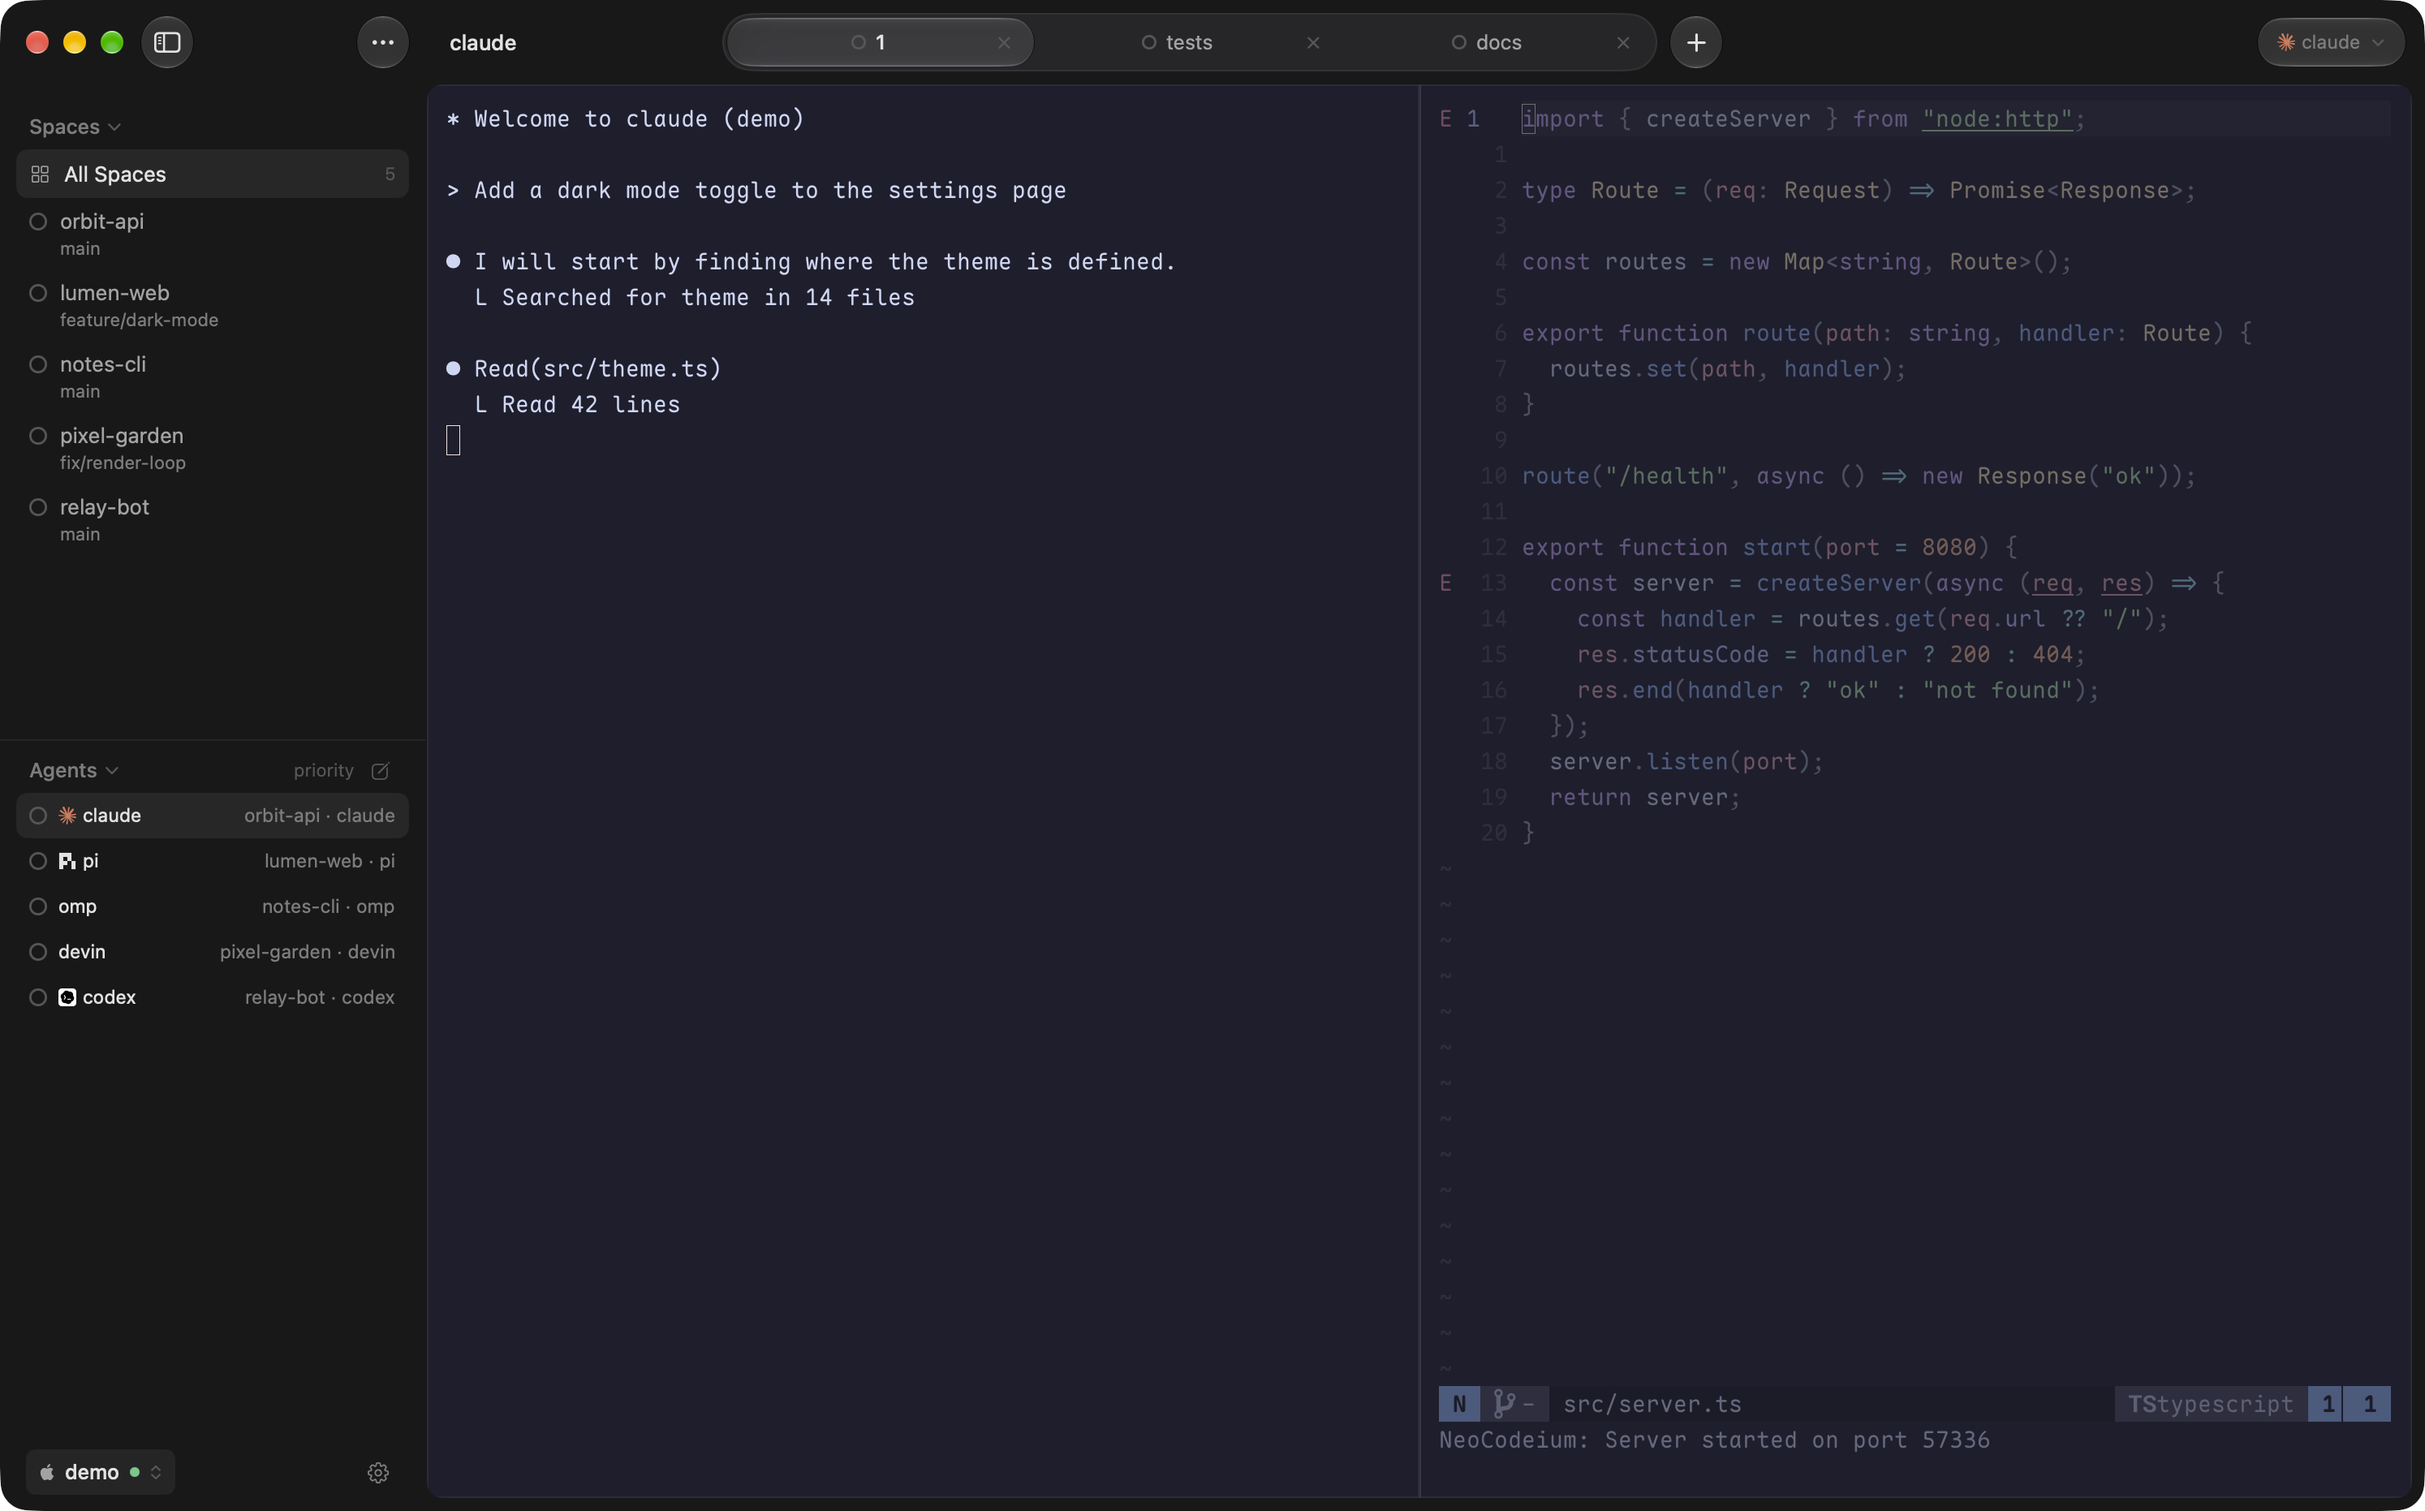
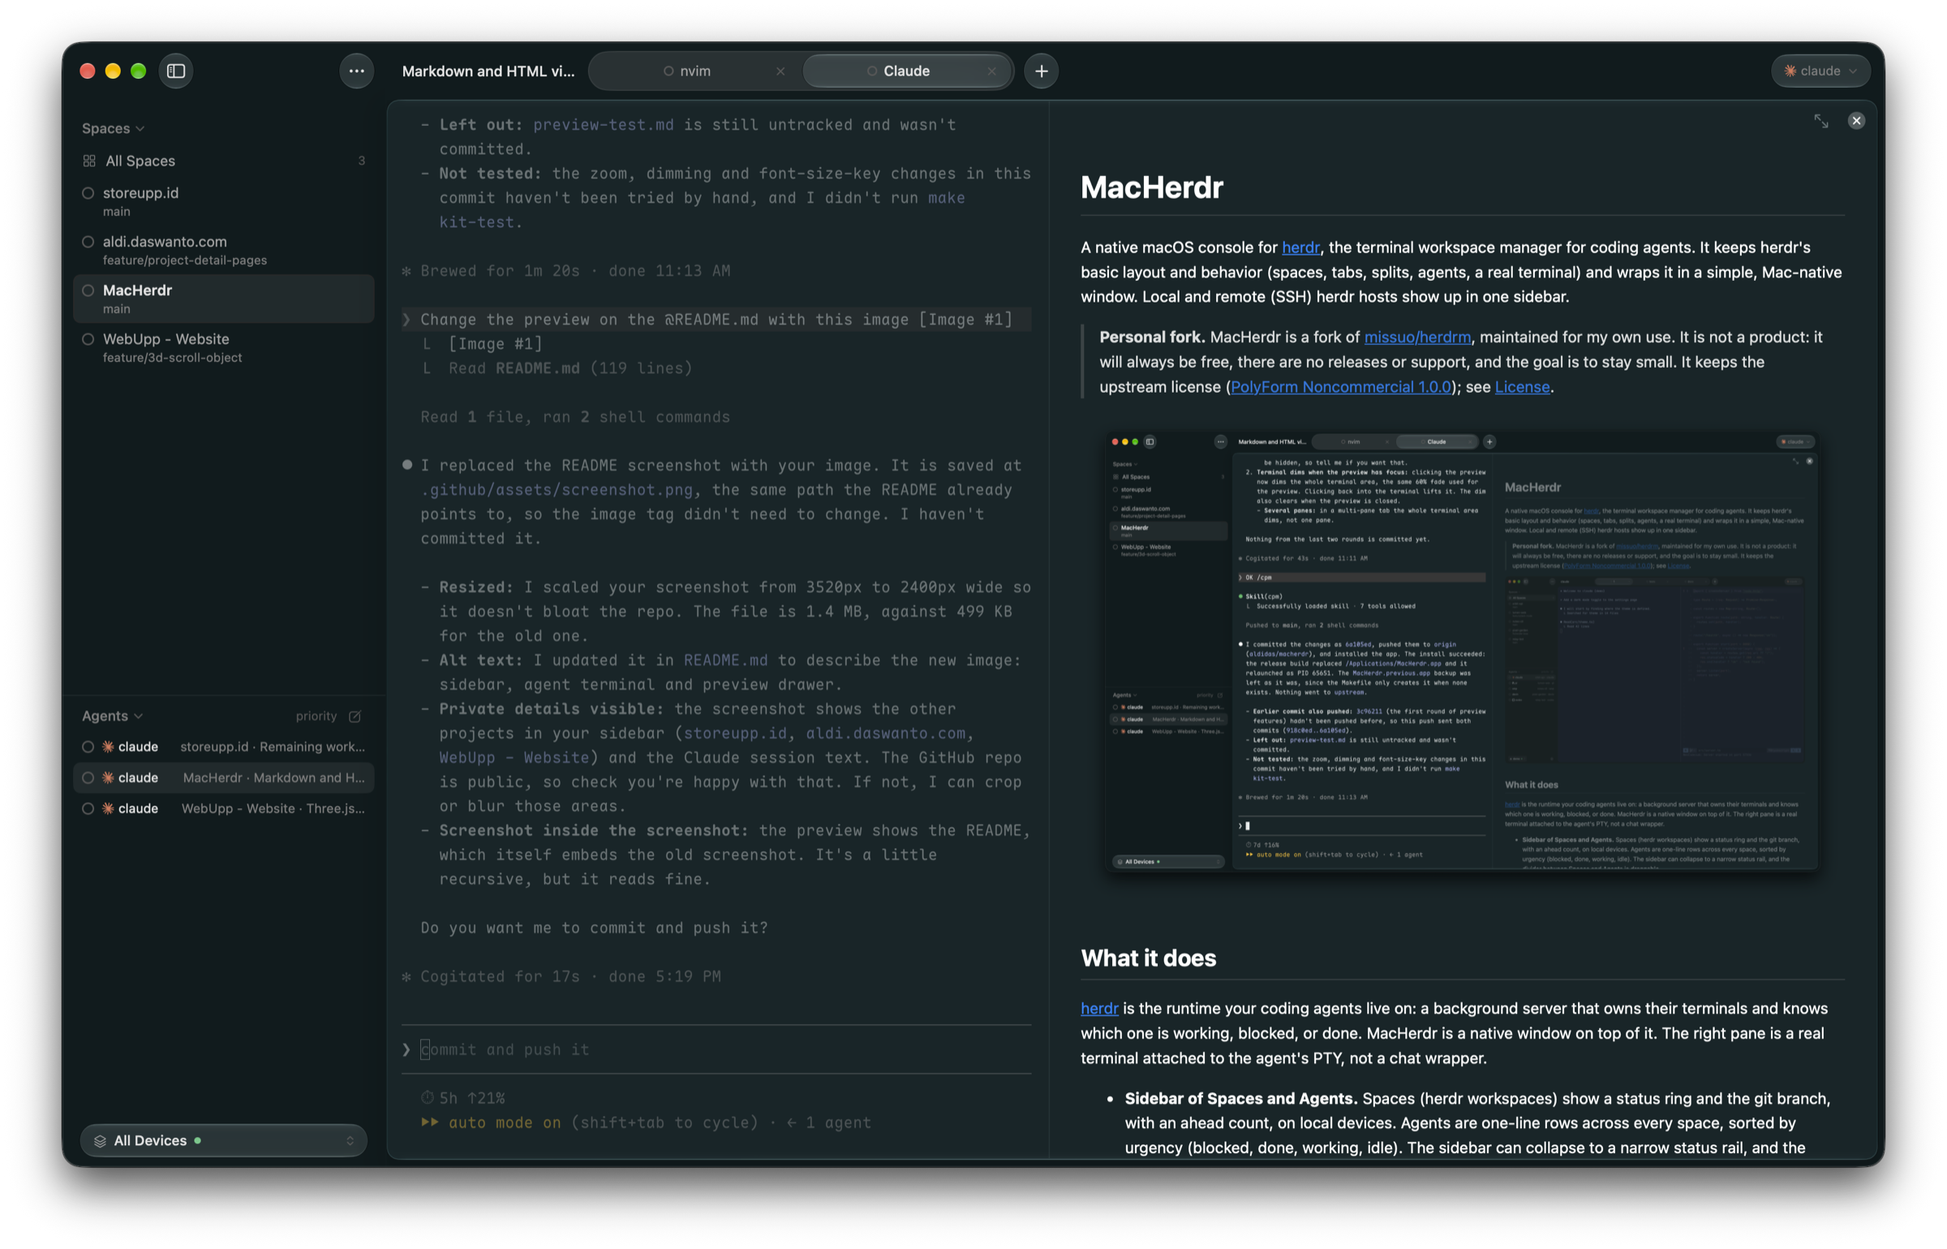
docs(readme): show the preview drawer in the screenshot

diff --git a/README.md b/README.md
@@ -11,7 +11,7 @@ up in one sidebar.
 > ([PolyForm Noncommercial 1.0.0](LICENSE.md)); see [License](#license).
 
 <p align="center">
-  <img src=".github/assets/screenshot.png" alt="MacHerdr: sidebar with spaces and several kinds of agents, the tab bar, and a split terminal layout with an agent and neovim" />
+  <img src=".github/assets/screenshot.png" alt="MacHerdr: sidebar with spaces and agents, the tab bar, an agent terminal, and the markdown preview drawer beside it" />
 </p>
 
 ## What it does
